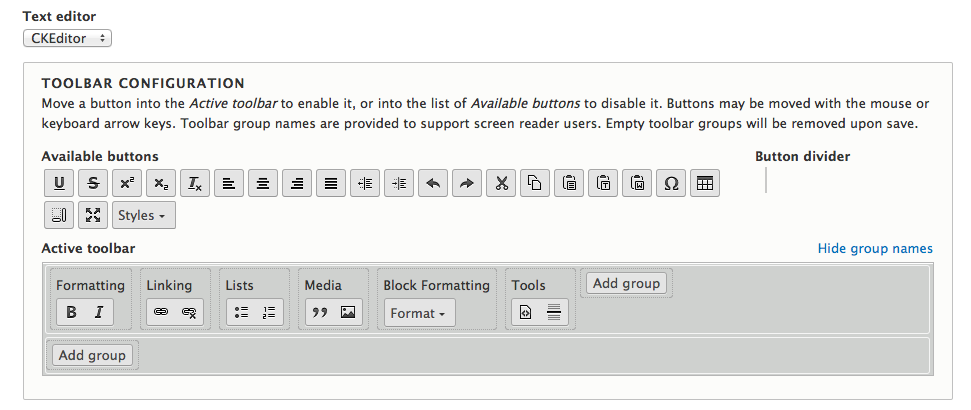
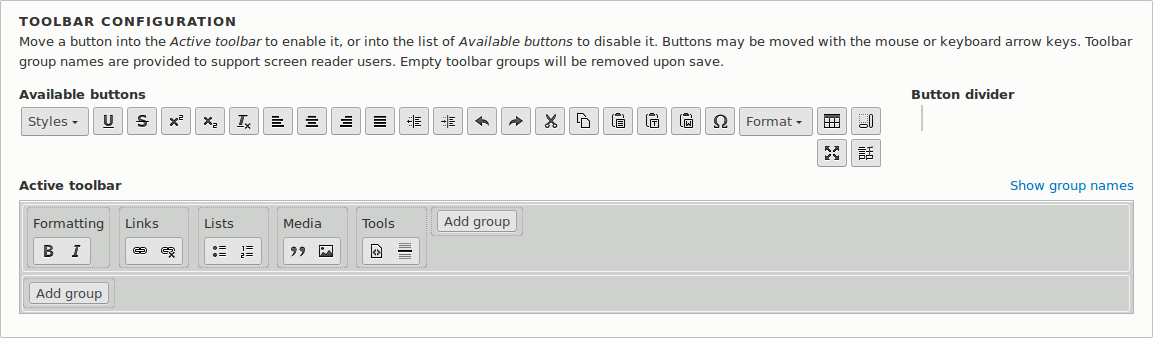
Issue #2539918 by jhodgdon: Automate more screenshots

diff --git a/auto_screenshots/src/Tests/UserGuideDemoTestBase.php b/auto_screenshots/src/Tests/UserGuideDemoTestBase.php
@@ -126,6 +126,10 @@ abstract class UserGuideDemoTestBase extends WebTestBase {
     'recipe_2_body' => 'Serve multi-colored carrots on a plate for dinner.',
     'recipe_2_ingredients' => 'Carrots',
 
+    // Image style.
+    'image_style_label' => 'Extra medium (300x200)',
+    'image_style_machine_name' => 'extra_medium_300x200',
+
   ];
 
   /**
@@ -790,8 +794,8 @@ abstract class UserGuideDemoTestBase extends WebTestBase {
 
     // Set the trim length to zero and set links to open in a new window.
     $this->drupalPostForm(NULL, [
-        'fields[field_vendor_url][settings_edit_form][settings][trim_length]' => '',
-        'fields[field_vendor_url][settings_edit_form][settings][target]' => '_blank',
+        'fields[field_' . $vendor_url . '][settings_edit_form][settings][trim_length]' => '',
+        'fields[field_' . $vendor_url . '][settings_edit_form][settings][target]' => '_blank',
       ], $this->callT('Save'));
 
     $this->drupalGet('admin/structure/types/manage/' . $vendor . '/display');
@@ -817,6 +821,65 @@ abstract class UserGuideDemoTestBase extends WebTestBase {
         'fields[field_' . $submitted_by . '][label]' => 'inline',
         'fields[links][weight]' => 50,
       ], $this->callT('Save'));
+
+    // Topic: structure-image-style-create - Setting Up an Image Style.
+
+    // Create the image style.
+    $this->drupalGet('admin/config/media/image-styles');
+    $this->clickLink($this->callT('Add image style'));
+    $this->drupalPostForm(NULL, [
+        'label' => $this->demoInput['image_style_label'],
+        'name' => $this->demoInput['image_style_machine_name'],
+      ], $this->callT('Create new style'));
+    $this->drupalPostForm(NULL, [
+        'new' => 'image_scale_and_crop',
+      ], $this->callT('Add'));
+    $this->drupalPostForm(NULL, [
+        'data[width]' => 300,
+        'data[height]' => 200,
+      ], $this->callT('Add effect'));
+    // Image style editing page, with effects added.
+    $this->setUpScreenShot('structure-image-style-create-add-style.png', 'onLoad="' . $this->removeScrollbars() . $this->hideArea('#toolbar-administration') . $this->setWidth('.layout-container', 800) . $this->setWidth('header', 830) . '"');
+
+    // Use the image style in Manage Display for the Vendor.
+    $this->drupalGet('admin/structure/types/manage/' . $vendor . '/display');
+    // Use Ajax to open the Edit area for the Main Image field.
+    $this->drupalPostAjaxForm(NULL, [], 'field_' . $main_image . '_settings_edit');
+    // Main image settings area of Vendor content type.
+    $this->setUpScreenShot('structure-image-style-create-manage-display.png', 'onLoad="' . $this->removeScrollbars() . $this->showOnly('.field-plugin-settings-edit-form') . $this->setWidth('table', 400) . 'jQuery(\'.form-item-fields-field-' . $main_image_hyphens . '-settings-edit-form-settings-image-style select\').val(\'' . $this->demoInput['image_style_machine_name'] . '\');' . '"');
+    $this->drupalPostForm(NULL, [
+        'fields[field_' . $main_image . '][settings_edit_form][settings][image_style]' => $this->demoInput['image_style_machine_name'],
+      ], $this->callT('Save'));
+
+    // Repeat for Recipe content type, no screenshots.
+    $this->drupalGet('admin/structure/types/manage/' . $recipe . '/display');
+    $this->drupalPostAjaxForm(NULL, [], 'field_' . $main_image . '_settings_edit');
+    $this->drupalPostForm(NULL, [
+        'fields[field_' . $main_image . '][settings_edit_form][settings][image_style]' => $this->demoInput['image_style_machine_name'],
+      ], $this->callT('Save'));
+
+
+    // Topic: structure-text-format-config - Configuring Text Formats and
+    // Editors.
+
+    // Update the configuration for Basic HTML: add an HR tag.
+    $this->drupalGet('admin/config/content/formats/manage/basic_html');
+    // The button configuration for the editing toolbar uses drag-and-drop,
+    // but has a text field behind the scenes. So, save the configuration and
+    // then come back for the screenshot.
+    $this->drupalPostForm(NULL, [
+        'editor[settings][toolbar][button_groups]' => '[[{"name":"' . $this->callT('Formatting') . '","items":["Bold","Italic"]},{"name":"' . $this->callT('Links') . '","items":["DrupalLink","DrupalUnlink"]},{"name":"' . $this->callT('Lists') . '","items":["BulletedList","NumberedList"]},{"name":"' . $this->callT('Media') . '","items":["Blockquote","DrupalImage"]},{"name":"' . $this->callT('Tools') . '","items":["Source", "HorizontalRule"]}]]',
+        'filters[filter_html][settings][allowed_html]' => '<hr> <a hreflang href> <em> <strong> <cite> <blockquote cite> <code> <ul type> <ol type start> <li> <dl> <dt> <dd> <h2 id> <h3 id> <h4 id> <h5 id> <h6 id> <p> <br> <span> <img width height data-caption data-align data-entity-uuid data-entity-type alt src> <hr>',
+      ], $this->callT('Save configuration'));
+
+    // Confirmation message after updating text format.
+    $this->setUpScreenShot('structure-text-format-config-summary.png', 'onLoad="' . $this->showOnly('.messages') . $this->setWidth('.messages', 500) . $this->setBodyColor() . $this->removeScrollbars() . '"');
+    $this->drupalGet('admin/config/content/formats/manage/basic_html');
+    // Button configuration area on text format edit page.
+    $this->setUpScreenShot('structure-text-format-config-editor-config.png', 'onLoad="' . $this->hideArea('#toolbar-administration, .content-header, .region-breadcrumb, .help, .form-type-textfield, .form-type-machine-name, #edit-roles--wrapper, .form-type-select, #filters-status-wrapper, .form-type-table, .form-type-vertical-tabs, #edit-actions') . 'jQuery(\'.ckeditor-toolbar\').addClass(\'ckeditor-group-names-are-visible\');' . $this->removeScrollbars() . '"');
+    // Allowed HTML tags area on text format edit page.
+    $this->setUpScreenShot('structure-text-format-config-allowed-html.png', 'onLoad="' . 'window.scroll(0,5000);' . $this->hideArea('#toolbar-administration, .content-header, .region-breadcrumb, .help, .form-item-name, .form-type-machine-name, fieldset, .form-type-select, #editor-settings-wrapper, #filters-status-wrapper, .form-type-table,  #edit-actions') . $this->setWidth('.form-type-vertical-tabs', 800) . $this->removeScrollbars() . '"');
+
 
     // @todo Add more topics here.
 
